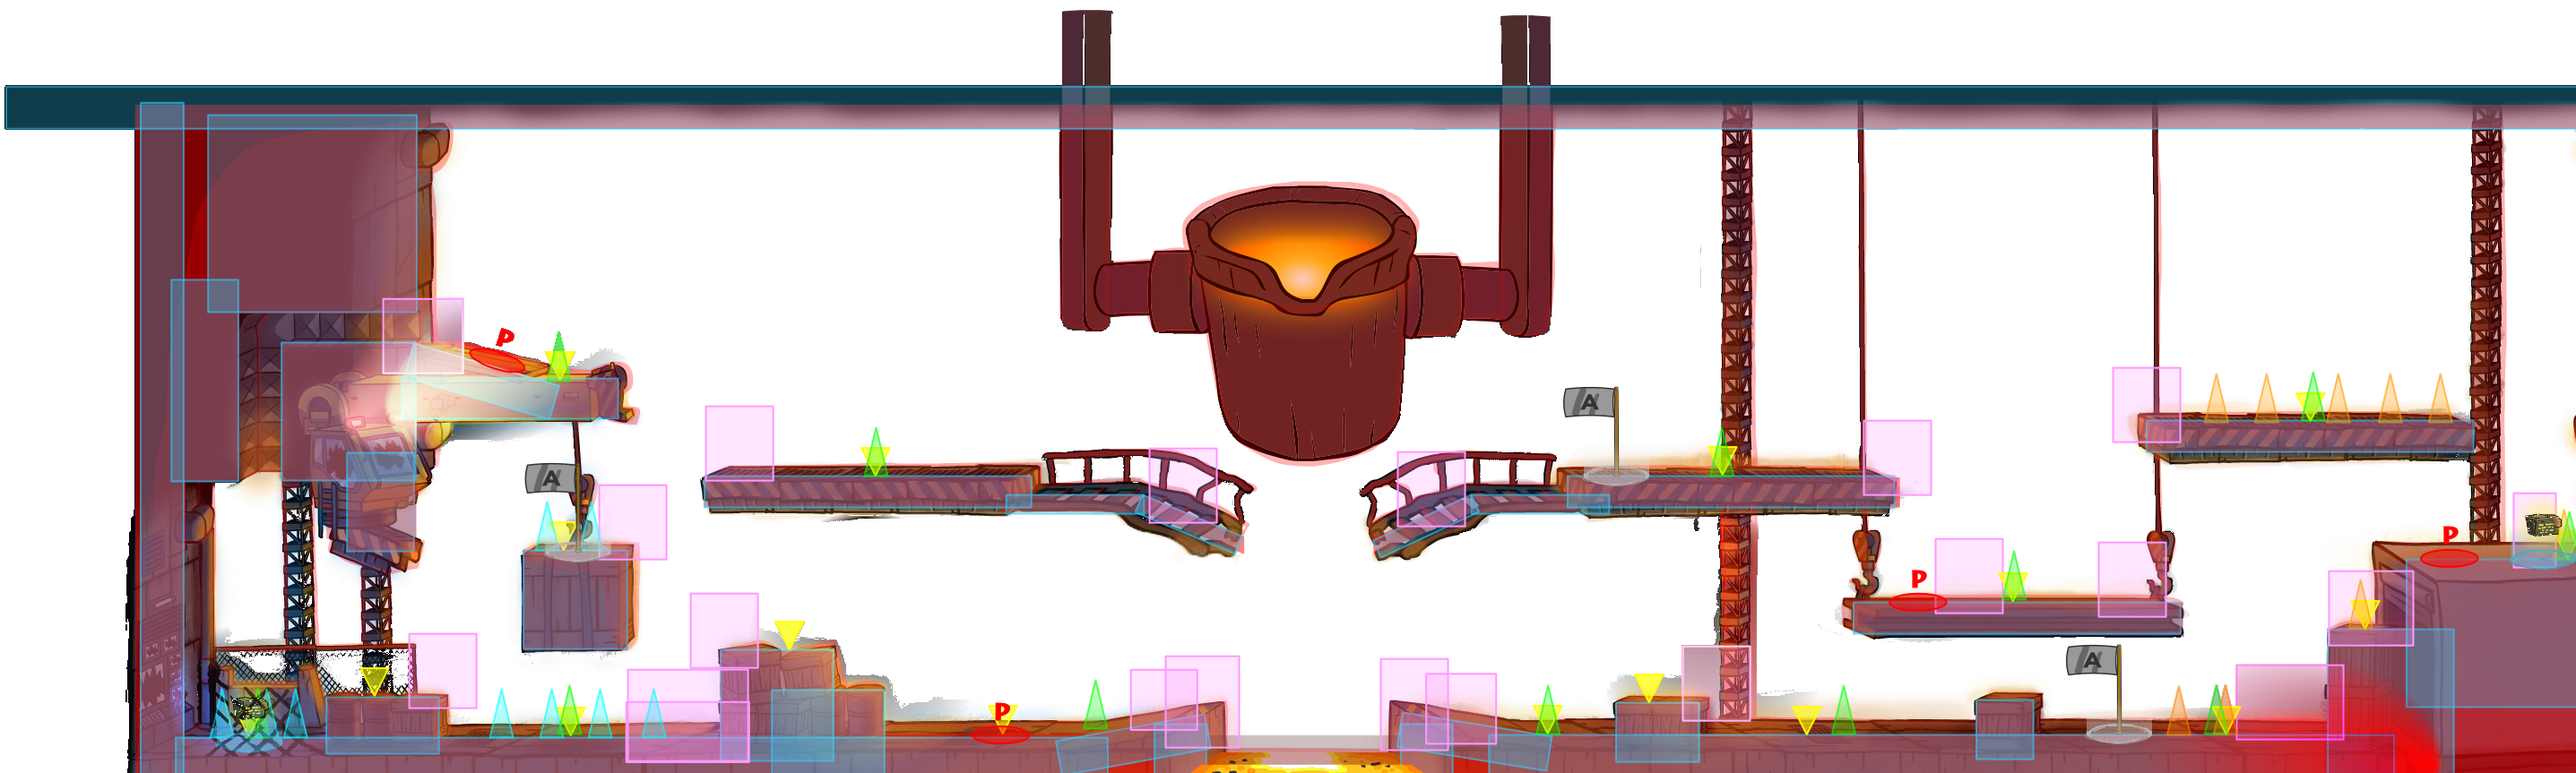
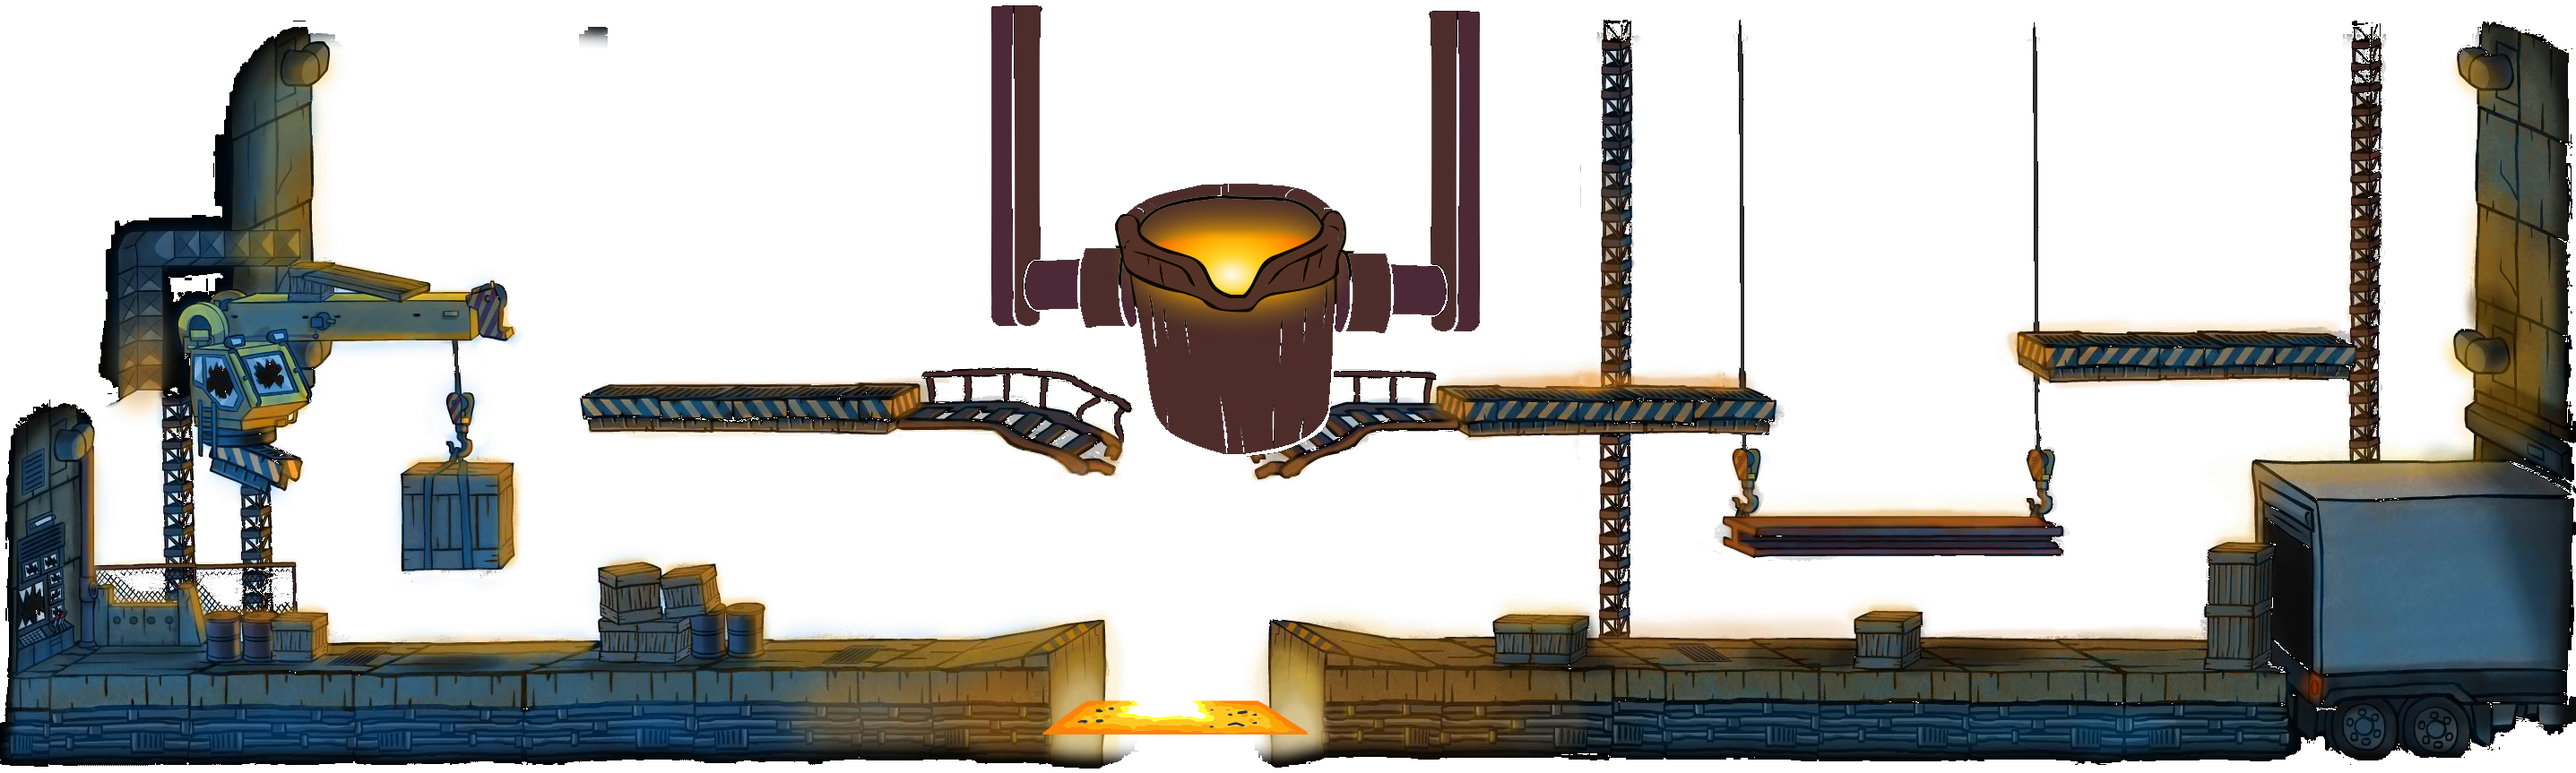
Align Foundry collision and render original foreground

diff --git a/README.md b/README.md
@@ -8,8 +8,8 @@
 
 - A / D 移动、W 跳跃、S 蹲伏、R 换弹；鼠标瞄准，鼠标左键或 F 射击；
 - 平滑局部跟随镜头，不会因鼠标跨越人物而突然反向切屏；
-- `UnitMC` 的 449 帧完整人物实例从原 SWF 逐帧裁出，按原标签区间播放跑动、跳跃、坠落、蹲伏与两种攀爬动作；
-- 提取的 Foundry `wall` alpha 遮罩统一驱动角色碰撞、子弹阻挡和 AI 视线；无 mask 时保留平台回退，便于单元测试；
+- `UnitMC` 的 449 帧完整人物实例从原 SWF 逐帧裁出并预载为精灵表，按原标签区间播放正/反向跑动、跳跃、坠落、蹲伏与两种攀爬动作；
+- 提取的 Foundry `wall` alpha 遮罩以原版的完全不透明像素统一驱动角色碰撞、子弹阻挡和 AI 视线；无 mask 时保留平台回退，便于单元测试；
 - Arena 的调试实例已按符号解析：33 个物理框、21 个 AI 行动点、17 个路径点、31 个出生点与 4 个补给点；正常游戏遵循原版脚本将这些辅助标记隐藏。
 - 弹匣/备弹、换弹、命中反馈、死亡计分、复活和动态准星；
 - 一个按原版 12 帧错峰扫描目标、同墙体遮挡检测的本地 AI；
@@ -41,7 +41,7 @@ src/
   online.mjs       私有房间的服务器权威客户端
   main.mjs         Canvas 渲染、菜单、存档与浏览器输入
 tests/
-  engine.test.mjs  29 个 Node 单元/集成测试
+  engine.test.mjs  31 个 Node 单元/集成测试
 docs/
   AI_HANDOFF.md            给下一位 AI 的详细项目交接报告
   PRIVATE_ASSET_SETUP.md   本机私有素材准备与 SWF 符号索引
@@ -57,7 +57,7 @@ npm test
 npm run test:coverage
 ```
 
-当前基线：24/24 通过。每次改变 `engine.mjs`、`camera.mjs` 或 `unit-rig.mjs` 时，先新增会失败的测试，再写实现。
+当前基线：31/31 通过。每次改变 `engine.mjs`、`camera.mjs` 或 `unit-rig.mjs` 时，先新增会失败的测试，再写实现。
 
 ## 交接入口
 
